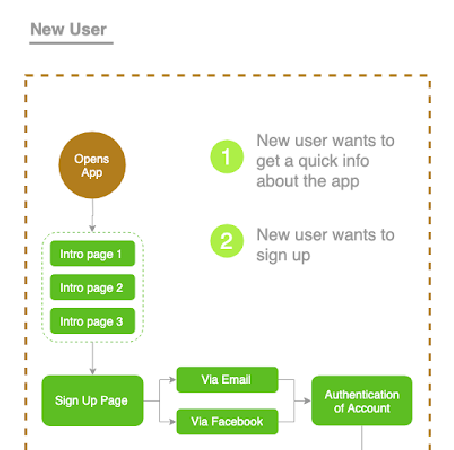
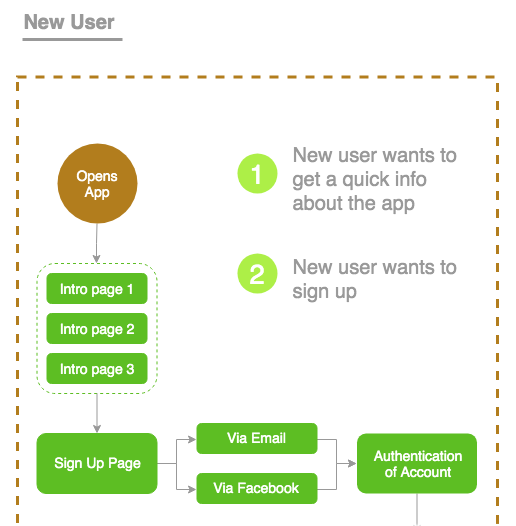
Removed unwanted characters and made images with better resolution.

Changed region(s): [[0.0308, 0.0311, 0.9868, 1.0], [0.4626, 0.28, 0.8943, 0.4356], [0.4626, 0.4667, 0.8943, 0.5911]]

diff --git a/filo.html b/filo.html
@@ -96,8 +96,7 @@
     <div class="row laptop_row">
       <div class="six columns subsection">
         <h4>Background Story</h4>
-        <p>This is a passion project that I also used as a school project.  
-        <br>
+        <p>This is a passion project that I also used as a school project.<br>
         <br>
         Back in 2016, I was chosen to join the Global Entrepreneurship Summit based on a business idea I submitted that is aimed to help migrant workers. This project is a part of that idea.</span>
         </p>
@@ -108,7 +107,7 @@
         <div class="subcontainer tasks">
           <div class="container" style="margin:5% 10%">
           <h5 style="background:transparent">Tasks</h5>
-          <p>User Research <br>Info Arch.<br>UX/ UI Design<br>Branding<br> UserTesting<br><br><br><br><br><br></p>
+          <p>User Research<br>Info Arch.<br>UX/ UI Design<br>Branding<br>UserTesting<br><br><br><br><br><br></p>
           </div>
         </div>
       </div>
@@ -116,7 +115,7 @@
       <div class="three columns subsection" style="background-color:#303030">
         <div class="subcontainer tasks">
           <div class="container" style="margin:5% 10%">
-          <h5 style="background:transparent">Tools</h5><p>SoGoSurvey <br>Draw.io<br>Figma<br>Illustrator <br>Photoshop<br> Invision<br>Maze<br>UsabilityHub<br>Skype<br>Zoom</p>
+          <h5 style="background:transparent">Tools</h5><p>SoGoSurvey<br>Draw.io<br>Figma<br>Illustrator<br>Photoshop<br>Invision<br>Maze<br>UsabilityHub<br>Skype<br>Zoom</p>
         </div>
       </div>
       </div>
@@ -129,7 +128,7 @@
         <div class="subcontainer">
           <div class="container" style="margin-top:10%">
           <h5 style="background:transparent">Tasks</h5>
-          <p>User Research<br>Info Arch.<br>UX/ UI Design<br>Branding<br>User Testing<br><br><br><br><br><br></p>
+          <p>User Researh<br>Info Arch.<br>UX/ UI Design<br>Branding<br>User Testing<br><br><br><br><br><br></p>
           </div>
         </div>
       </div>
@@ -764,7 +763,7 @@
   <div class="container">
     <div class="row">
       <!-- Image first Column  -->
-      <div class="six columns subsection project-img"><img src="images/preference_test-v3.png" class="showcase-img">
+      <div class="six columns subsection project-img"><img src="images/preference_test-v4.jpg" class="showcase-img">
 
       <!-- Button -->
       <a href="https://app.usabilityhub.com/tests/9ce8a38c44b7/results" target="_blank" class="button mobile_view">See Test Results</a>

diff --git a/css/skeleton.css b/css/skeleton.css
@@ -580,7 +580,7 @@ text-align: center;
   position:relative;
   max-height: 450px;
   overflow: hidden;
-  background: url(../images/filo_background.png) no-repeat center;
+  background: url(../images/filo_bg4x-op.png) no-repeat center;
   background-size: cover;
   margin-top: 2%;
 }
